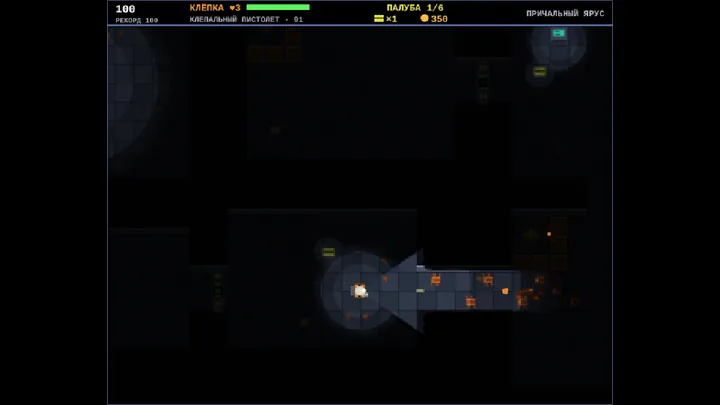
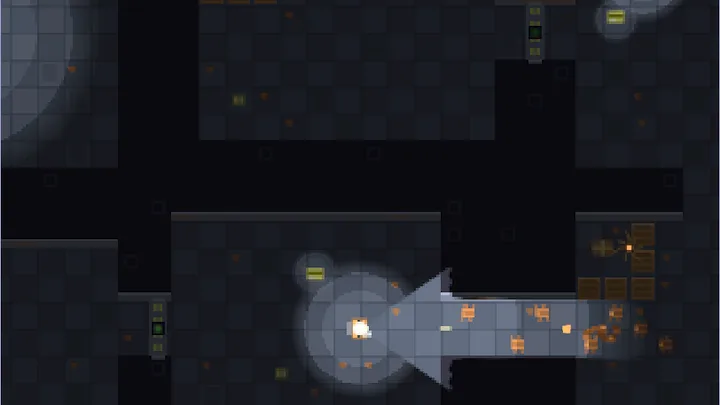
fix(otsek): превью каталога осветлено (кадр с фонарём был почти чёрным); THUMB_REV 20261114a
Claude-Session: https://claude.ai/code/session_01VBqGvTDj3eRbY73YoU5xwy

diff --git a/assets/catalog/catalog.js b/assets/catalog/catalog.js
@@ -20,7 +20,7 @@
   const THUMB_BASE = 'assets/catalog/thumbs/';
   /* Ревизия превью: менять при перегенерации thumbs — сбрасывает кэш браузера и CDN.
      Итоговый ключ = версия игры + ревизия набора превью. */
-  const THUMB_REV = '20261113c';
+  const THUMB_REV = '20261114a';
 
   /* На file:// адреса вида "hrum/" открывают листинг каталога, а не игру,
      поэтому в этом режиме ведём прямо на "hrum/index.html". На http(s)
